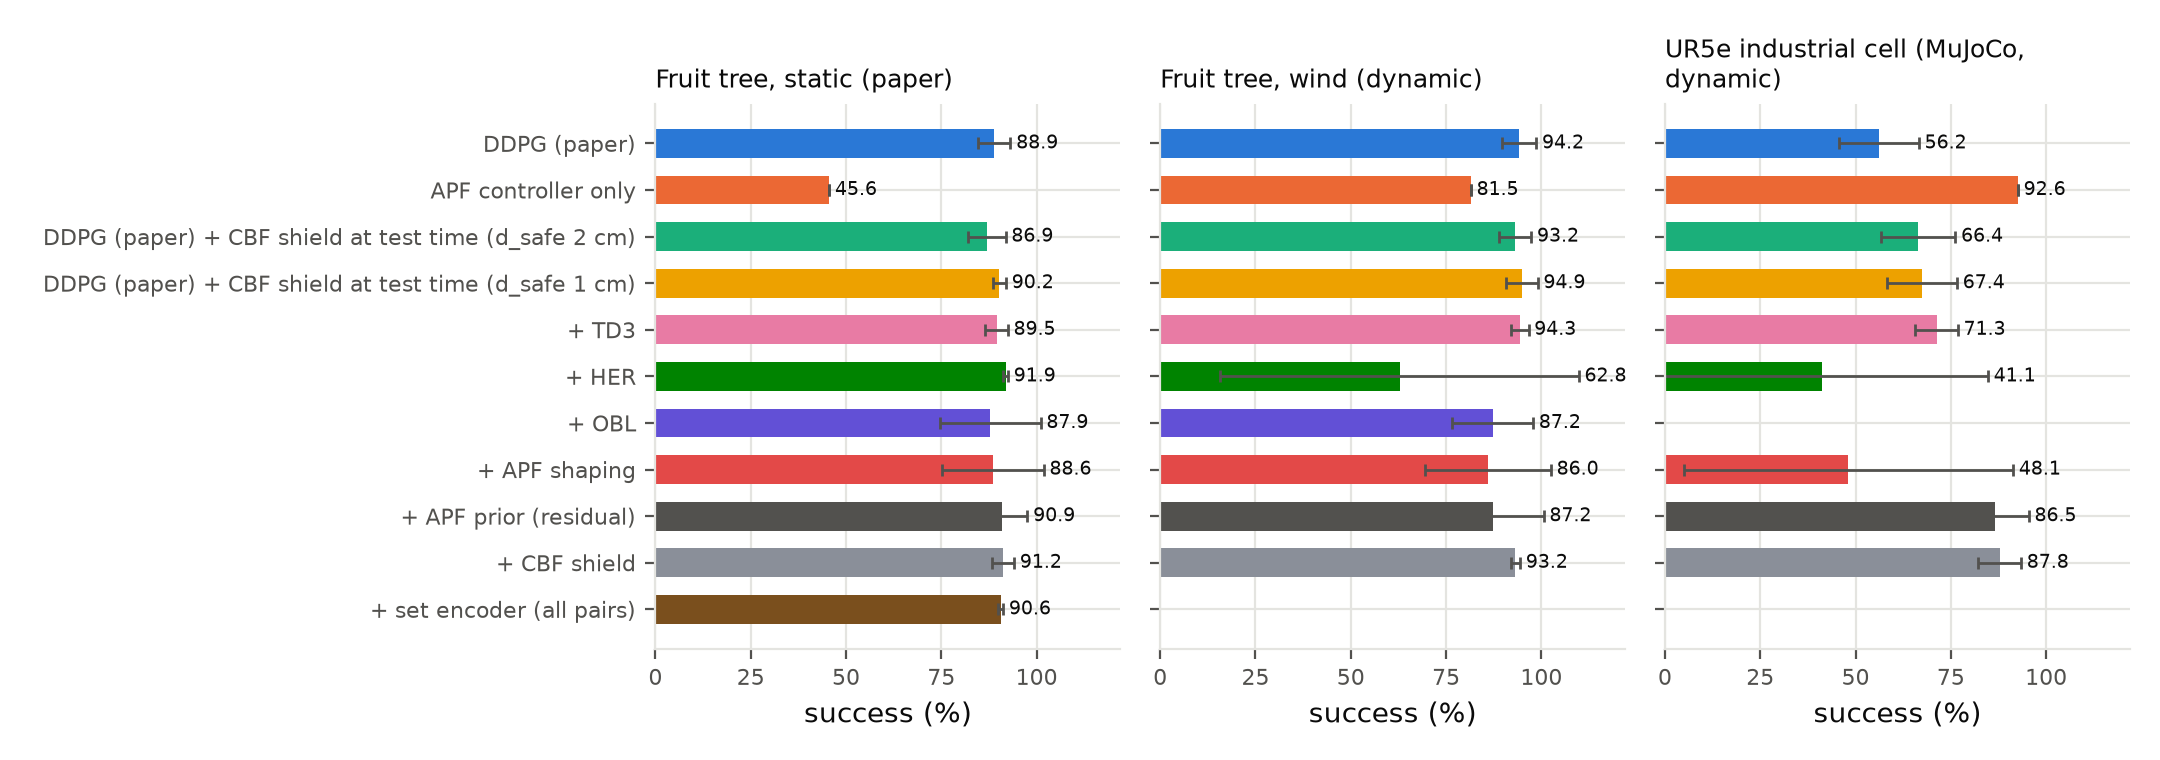
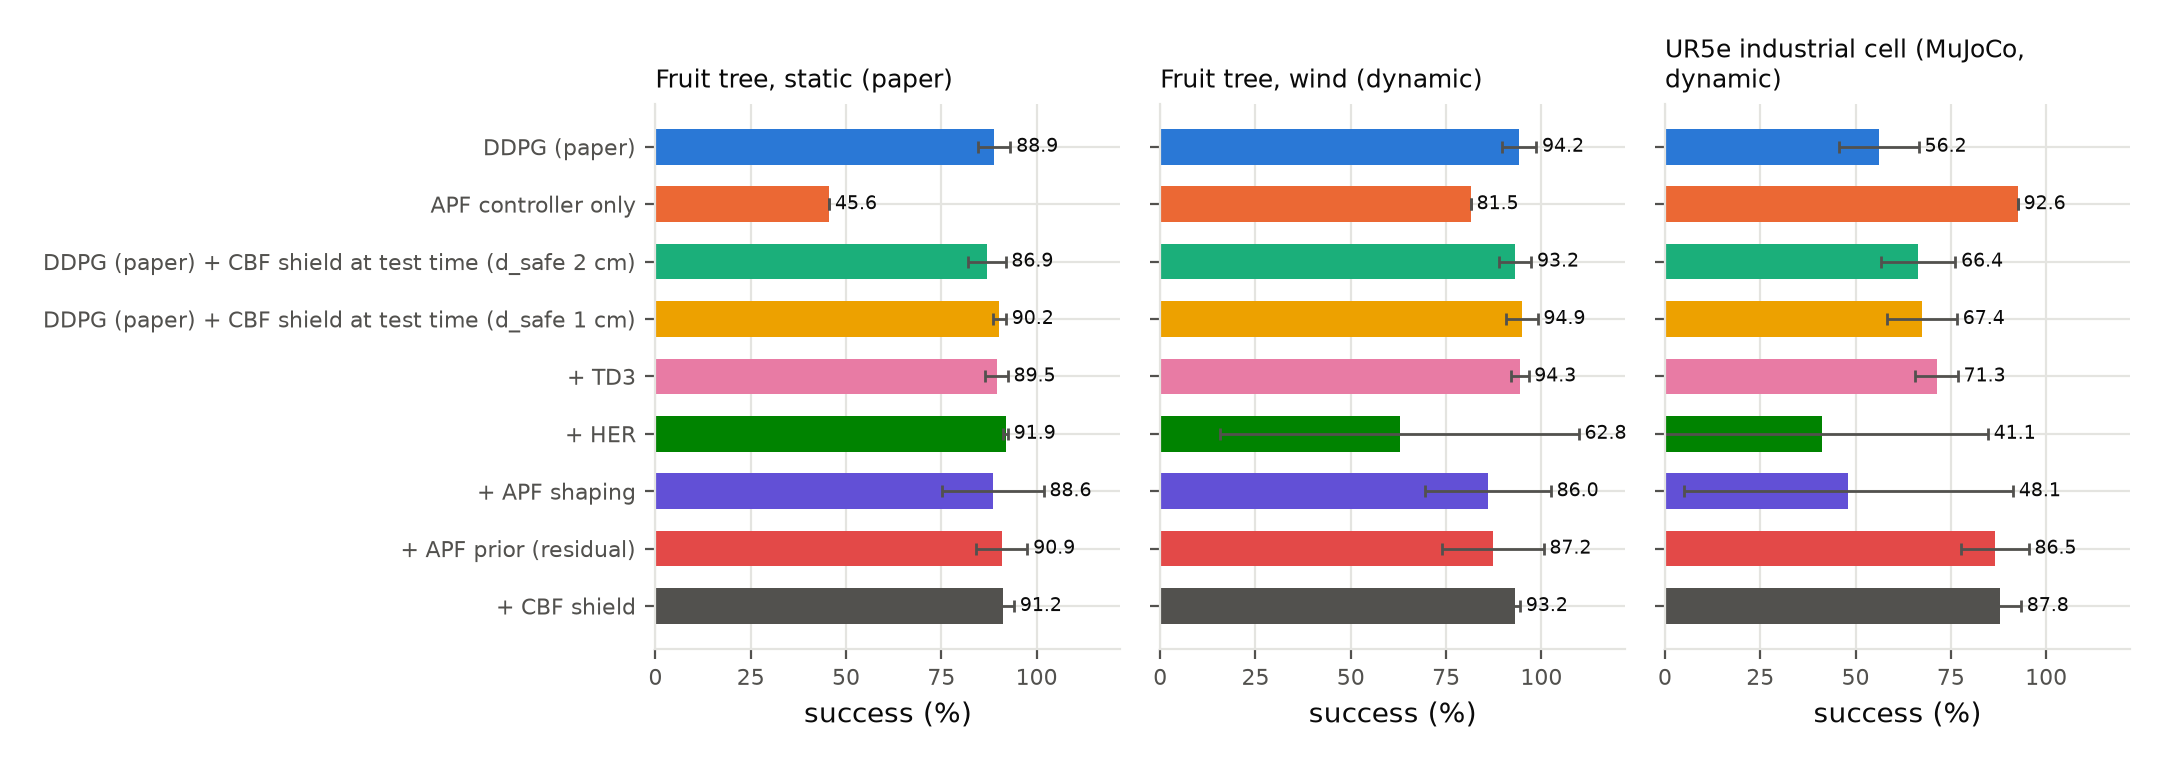
Ladder figure: same rows on all worlds

Changed region(s): [[0.0, 0.1816, 0.9926, 0.8474]]

diff --git a/scripts/report_benchmark.py b/scripts/report_benchmark.py
@@ -229,7 +229,8 @@ def fig_curves(rows, bench, sc, out: Path, key="success"):
 
 def fig_ladder(agg, bench, out: Path):
     scenes = list(bench["scenes"])
-    variants = [v for v in bench["variants"] if any((sc, v) in agg for sc in scenes) and bench["variants"][v].get("ladder", True)]
+    # only rungs that have data on every world, so the three panels carry the same rows
+    variants = [v for v in bench["variants"] if all((sc, v) in agg for sc in scenes) and bench["variants"][v].get("ladder", True)]
     fig, axes = plt.subplots(1, len(scenes), figsize=(3.6 * len(scenes), 3.8), sharey=True)
     axes = np.atleast_1d(axes)
     for ax, sc in zip(axes, scenes):
